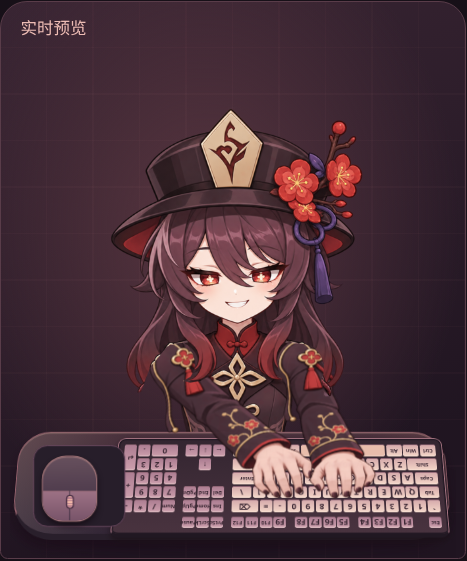
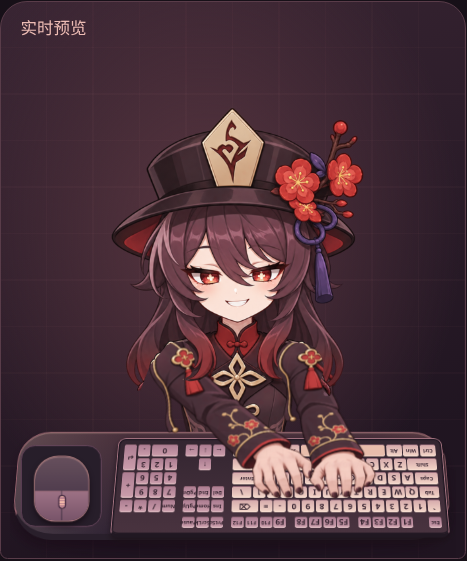
Move fingertips to keycaps and add blinking

diff --git a/src/scene.js b/src/scene.js
@@ -9,7 +9,10 @@ function createScene(container) {
           <img class="part body" data-part="body" alt="">
         </div>
         <div class="avatar-core avatar-head">
-          <img class="part head" data-part="head" alt="">
+          <div class="head-frame">
+            <img class="part head" data-part="head" alt="">
+            <img class="part eye-blink" src="../assets/eye-blink.png" alt="">
+          </div>
         </div>
         <div class="desk"></div>
         <div class="keyboard"></div>
@@ -31,6 +34,7 @@ function createScene(container) {
 
   const scene = container.firstElementChild;
   const desk = scene.querySelector('.workstation');
+  const mouse = scene.querySelector('.mouse');
   const keys = createDeskKeyboard(scene.querySelector('.keyboard'));
   const clickClasses = ['click-primary', 'click-secondary', 'click-other'];
   const mousePulses = new Map();
@@ -47,14 +51,29 @@ function createScene(container) {
     };
   }
 
-  const leftHand = armAt('.keyboard-arm', 244, 301);
-  const rightHand = armAt('.keyboard-right-arm', 177, 301);
-  const mouseHand = armAt('.mouse-arm', 45, 306);
+  function toDeskPoint(x, y) {
+    const area = desk.getBoundingClientRect();
+    return {
+      x: (x - area.x) * desk.offsetWidth / area.width,
+      y: (y - area.y) * desk.offsetHeight / area.height
+    };
+  }
+
   const leftRest = { x: 254, y: 297 };
   const rightRest = { x: 211, y: 297 };
+  const leftHand = { ...armAt('.keyboard-arm', 244, 301), point: leftRest, rest: leftRest };
+  const rightHand = { ...armAt('.keyboard-right-arm', 177, 301), point: rightRest, rest: rightRest };
+  const typingHands = [leftHand, rightHand];
+  const mouseHand = armAt('.mouse-arm', 45, 306);
+  const mouseBounds = mouse.getBoundingClientRect();
+  const mouseRest = toDeskPoint(mouseBounds.x + mouseBounds.width / 2, mouseBounds.bottom);
+  mouseRest.y -= 14;
   const reducedMotion = matchMedia('(prefers-reduced-motion: reduce)');
 
-  let keyTimer, idleTimer, travelFrame, activeKey, tap;
+  const keyReachTime = 86;
+  const keyHoldTime = 85;
+  const mouseTravelTime = 250;
+  let keyTimer, idleTimer, poseFrame, activeKey, activeHand, mouseTravel;
   let mouseEngaged = false, mouseProgress = 0, mouseX = 0, mouseY = 0;
   let figureScale = 1, version;
 
@@ -72,66 +91,107 @@ function createScene(container) {
   }
 
   function poseHands() {
-    placeArm(leftHand, leftRest.x + (tap?.arm === leftHand ? tap.dx : 0),
-      leftRest.y + (tap?.arm === leftHand ? 3 : 0));
+    placeArm(leftHand, leftHand.point.x, leftHand.point.y);
 
     // Both right-hand poses share one shoulder and travel along one wrist path.
     const p = mouseProgress;
     const arm = p < .55 ? rightHand : mouseHand;
-    const dx = tap?.arm === rightHand ? tap.dx * (1 - p) : 0;
-    const press = tap?.arm === rightHand ? 3 * (1 - p) : 0;
-    const x = rightRest.x + (mouseHand.x + mouseX - rightRest.x) * p + dx;
-    const y = rightRest.y + (mouseHand.y + mouseY - rightRest.y) * p
-      - Math.sin(Math.PI * p) * 24 + press;
+    const x = rightHand.point.x + (mouseRest.x + mouseX - rightHand.point.x) * p;
+    const y = rightHand.point.y + (mouseRest.y + mouseY - rightHand.point.y) * p
+      - Math.sin(Math.PI * p) * 24;
     placeArm(arm, x, y);
     rightHand.element.classList.toggle('pose-inactive', arm !== rightHand);
     mouseHand.element.classList.toggle('pose-inactive', arm !== mouseHand);
   }
 
+  function easeProgress(motion, now) {
+    const t = Math.min(1, Math.max(0, (now - motion.start) / motion.duration));
+    return t * t * (3 - 2 * t);
+  }
+
+  function requestPoseFrame() {
+    if (poseFrame == null) poseFrame = requestAnimationFrame(advancePose);
+  }
+
+  function advancePose(now) {
+    poseFrame = null;
+    for (const hand of typingHands) {
+      const motion = hand.motion;
+      if (!motion) continue;
+      const p = easeProgress(motion, now);
+      hand.point = {
+        x: motion.from.x + (motion.to.x - motion.from.x) * p,
+        y: motion.from.y + (motion.to.y - motion.from.y) * p - Math.sin(Math.PI * p) * motion.lift
+      };
+      if (p === 1) hand.motion = null;
+    }
+    if (mouseTravel) {
+      const p = easeProgress(mouseTravel, now);
+      mouseProgress = mouseTravel.from + (mouseTravel.to - mouseTravel.from) * p;
+      if (p === 1) mouseTravel = null;
+    }
+    poseHands();
+    if (mouseTravel || typingHands.some(hand => hand.motion)) requestPoseFrame();
+  }
+
+  function moveTypingHand(hand, point, duration) {
+    if (hand.motion?.to.x === point.x && hand.motion?.to.y === point.y) return;
+    const distance = Math.hypot(point.x - hand.point.x, point.y - hand.point.y);
+    if (reducedMotion.matches || distance === 0) {
+      hand.motion = null;
+      hand.point = point;
+      return;
+    }
+    hand.motion = {
+      from: hand.point, to: point, start: performance.now(), duration,
+      lift: Math.min(6, distance * .12)
+    };
+    requestPoseFrame();
+  }
+
   function setMouseEngaged(value) {
     if (mouseEngaged === value) return;
     mouseEngaged = value;
-    cancelAnimationFrame(travelFrame);
     const target = value ? 1 : 0;
-    if (reducedMotion.matches) {
+    if (reducedMotion.matches || mouseProgress === target) {
       mouseProgress = target;
+      mouseTravel = null;
       poseHands();
       return;
     }
-    const from = mouseProgress;
-    const start = performance.now();
-    const duration = 250 * Math.abs(target - from);
-    const step = (now) => {
-      const ratio = Math.min(1, (now - start) / Math.max(duration, 1));
-      const ease = ratio * ratio * (3 - 2 * ratio);
-      mouseProgress = from + (target - from) * ease;
-      poseHands();
-      if (ratio < 1) travelFrame = requestAnimationFrame(step);
+    mouseTravel = {
+      from: mouseProgress, to: target, start: performance.now(),
+      duration: mouseTravelTime * Math.abs(target - mouseProgress)
     };
-    travelFrame = requestAnimationFrame(step);
+    requestPoseFrame();
   }
 
   function clearKey() {
     clearTimeout(keyTimer);
     activeKey?.classList.remove('is-pressed');
     activeKey = null;
-    tap = null;
+    activeHand = null;
   }
 
   function lightKey(key) {
+    const previousHand = activeHand;
     clearKey();
     activeKey = key;
     key.classList.add('is-pressed');
-    const area = desk.getBoundingClientRect();
     const bounds = key.getBoundingClientRect();
-    const x = (bounds.x + bounds.width / 2 - area.x) * desk.offsetWidth / area.width;
-    const arm = mouseEngaged || x >= (leftRest.x + rightRest.x) / 2 ? leftHand : rightHand;
-    const rest = arm === leftHand ? leftRest : rightRest;
-    tap = { arm, dx: Math.max(-8, Math.min(8, (x - rest.x) * .45)) };
+    const point = toDeskPoint(bounds.x + bounds.width / 2, bounds.y + bounds.height / 2);
+    activeHand = mouseEngaged || point.x >= (leftRest.x + rightRest.x) / 2 ? leftHand : rightHand;
+    if (previousHand && previousHand !== activeHand) moveTypingHand(previousHand, previousHand.rest, 125);
+    const hand = activeHand;
+    moveTypingHand(hand, point, keyReachTime);
+
+    // Leave the key lit while the right hand is returning from the mouse.
+    const reachTime = hand === rightHand ? Math.max(keyReachTime, mouseProgress * mouseTravelTime) : keyReachTime;
     keyTimer = setTimeout(() => {
       clearKey();
+      moveTypingHand(hand, hand.rest, 125);
       poseHands();
-    }, 115);
+    }, reachTime + keyHoldTime);
   }
 
   function pulseMouse(className, duration) {
@@ -174,7 +234,12 @@ function createScene(container) {
   function reset() {
     clearKey();
     clearTimeout(idleTimer);
-    cancelAnimationFrame(travelFrame);
+    cancelAnimationFrame(poseFrame);
+    poseFrame = mouseTravel = null;
+    for (const hand of typingHands) {
+      hand.motion = null;
+      hand.point = hand.rest;
+    }
     mouseEngaged = false;
     mouseProgress = mouseX = mouseY = 0;
     for (const [name, timeout] of mousePulses) {

diff --git a/src/scene.css b/src/scene.css
@@ -26,7 +26,7 @@
 }
 .avatar-head { z-index: 5; }
 .part { position: absolute; object-fit: contain; -webkit-user-drag: none; }
-/* The four default cutouts share a pose. Their boxes keep the joints aligned. */
+/* The cutout boxes keep the joints aligned. */
 .body {
   left: 104px;
   top: 155px;
@@ -34,18 +34,23 @@
   height: 138px;
   object-position: center 50%;
 }
-.head {
+.head-frame {
+  position: absolute;
   left: 72px;
   top: 4px;
   width: 200px;
   height: 224px;
-  object-position: center 79%;
   transform-origin: 50% 74%;
   animation: look 4.6s ease-in-out infinite;
 }
-.head.custom {
-  height: 172px;
-  object-position: center bottom;
+.head-frame .part { inset: 0; width: 100%; height: 100%; }
+.head { object-position: center 79%; }
+.head.custom { object-position: center bottom; }
+.head-frame:has(.head.custom) { height: 172px; }
+.head-frame:has(.head.custom) .eye-blink { display: none; }
+.eye-blink {
+  opacity: 0;
+  animation: blink 18s linear infinite;
 }
 .desk-shadow {
   position: absolute;
@@ -151,7 +156,6 @@
   width: 70px;
   height: 126px;
   transform-origin: 22px 8px;
-  transition: transform .08s ease-out;
 }
 .keyboard-right-arm {
   left: 104px;
@@ -164,9 +168,9 @@
 .mouse-track {
   z-index: 3;
   position: absolute;
-  left: 17px;
+  left: 8px;
   top: 260px;
-  width: 70px;
+  width: 61px;
   height: 62px;
   border: 1px solid #6d4a61;
   border-radius: 11px;
@@ -175,7 +179,7 @@
 .mouse {
   z-index: 4;
   position: absolute;
-  left: 24px;
+  left: 18px;
   top: 268px;
   width: 42px;
   height: 50px;
@@ -229,7 +233,11 @@
   0%, 100% { transform: translate(var(--look-x), var(--look-y)) rotate(-.2deg); }
   50% { transform: translate(var(--look-x), calc(var(--look-y) - 1px)) rotate(.3deg); }
 }
+@keyframes blink {
+  0%, 14.5%, 15.55%, 36.3%, 37.35%, 65.3%, 66.35%, 84.35%, 85.4%, 100% { opacity: 0; }
+  14.76%, 15.23%, 36.56%, 37.03%, 65.56%, 66.03%, 84.61%, 85.08% { opacity: 1; }
+}
 @media (prefers-reduced-motion: reduce) {
-  .head { transform: translate(var(--look-x), var(--look-y)); }
+  .head-frame { transform: translate(var(--look-x), var(--look-y)); }
   .scene * { animation: none; }
 }

diff --git a/README.md b/README.md
@@ -1,6 +1,6 @@
 # 花影桌宠
 
-一个置顶的透明桌宠。角色正坐在桌子中间，鼠标位于画面左侧，右侧的 104 键 QWERTY 键盘朝向角色。双手默认搭在键盘上，按键时只点亮最近按下的那颗物理键。移动、点击或滚动鼠标时，角色的右手会移过去，停止操作后回到键盘。
+一个置顶的透明桌宠。角色正坐在桌子中间，鼠标位于画面左侧，右侧的 104 键 QWERTY 键盘朝向角色。双手默认搭在键盘上，按键时指尖会移到对应的键帽，只点亮最近按下的那颗物理键。移动、点击或滚动鼠标时，角色的右手会移过去，停止操作后回到键盘。默认角色会自然眨眼。
 
 ![桌宠设置里的实际预览，鼠标在画面左侧，完整键盘在右侧并朝向角色](docs/desk-pet-preview.png)
 
